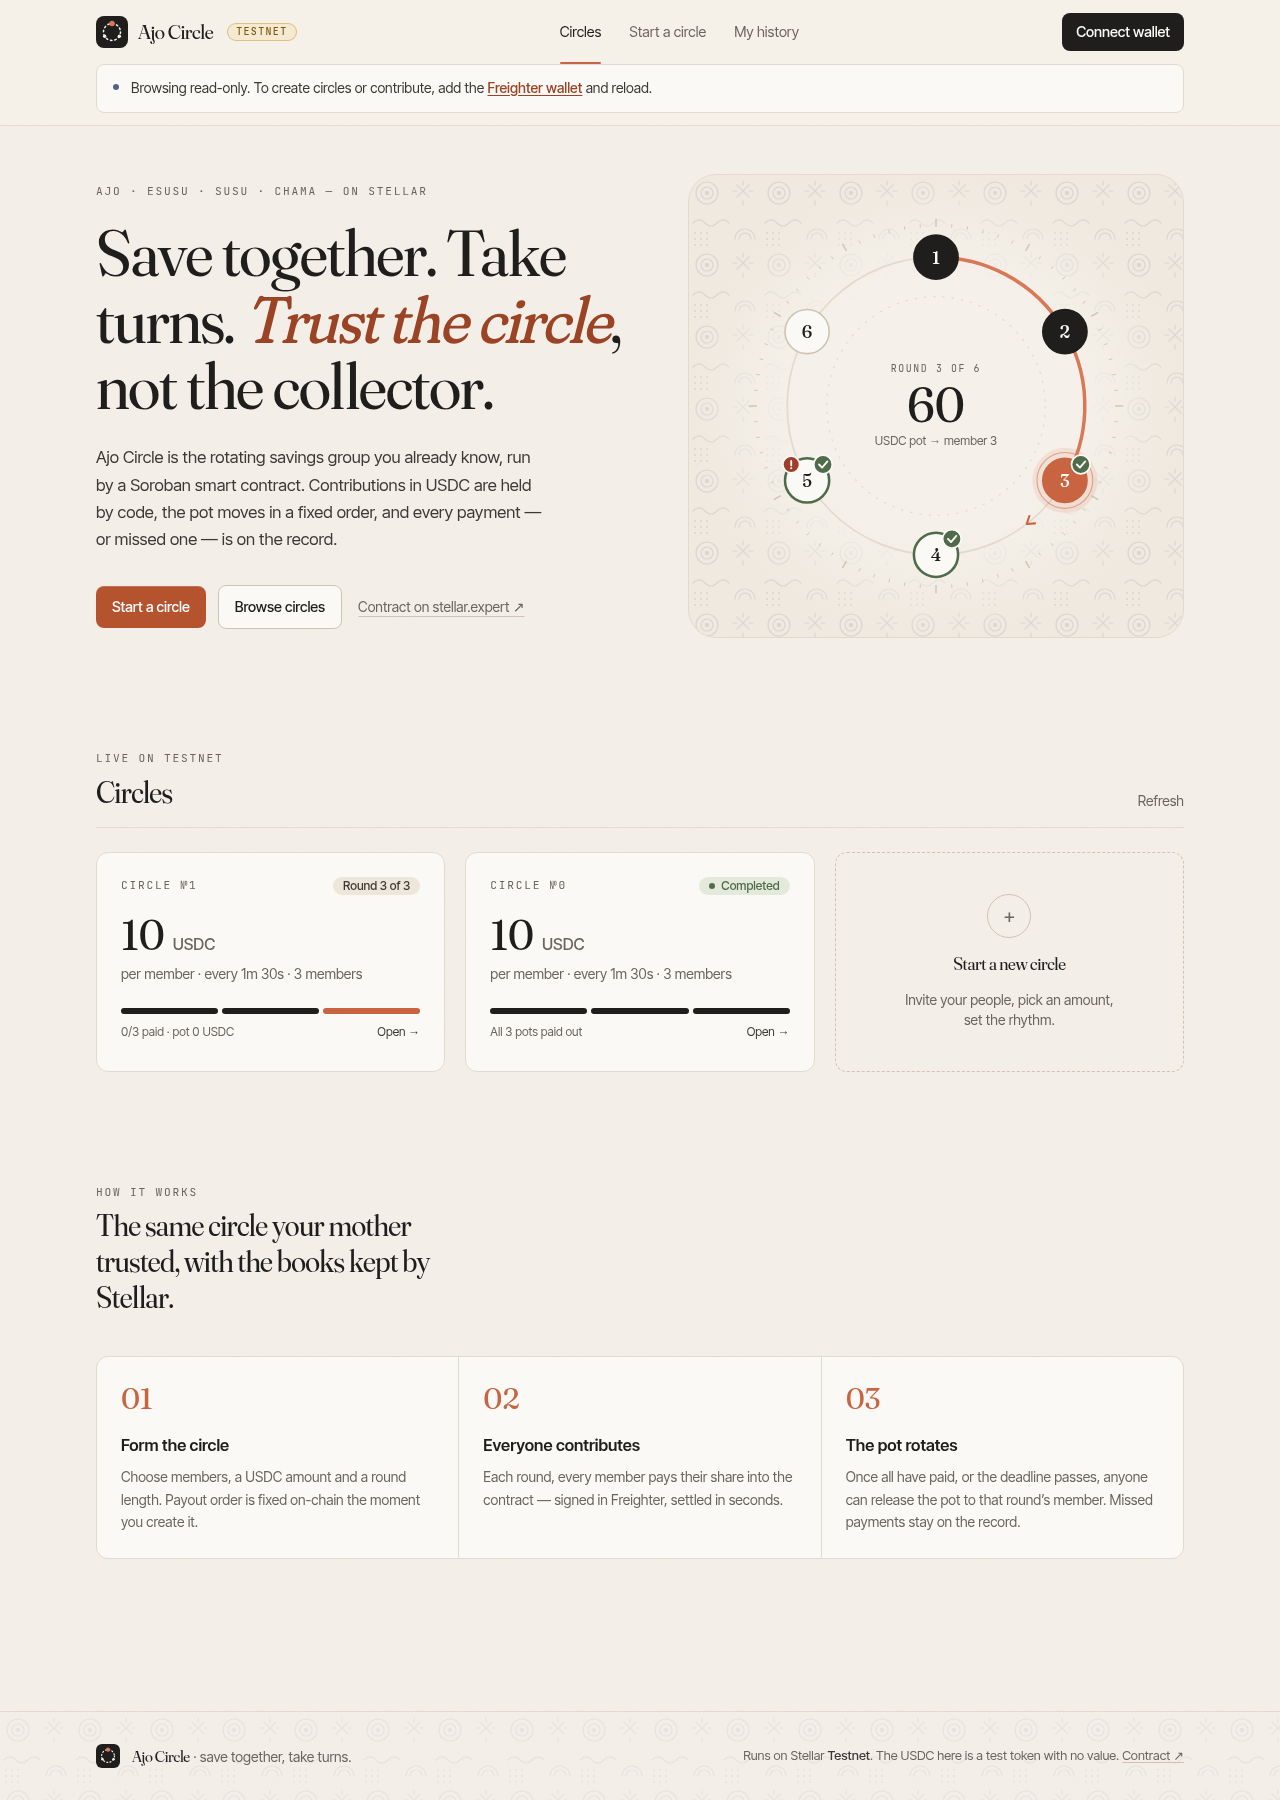
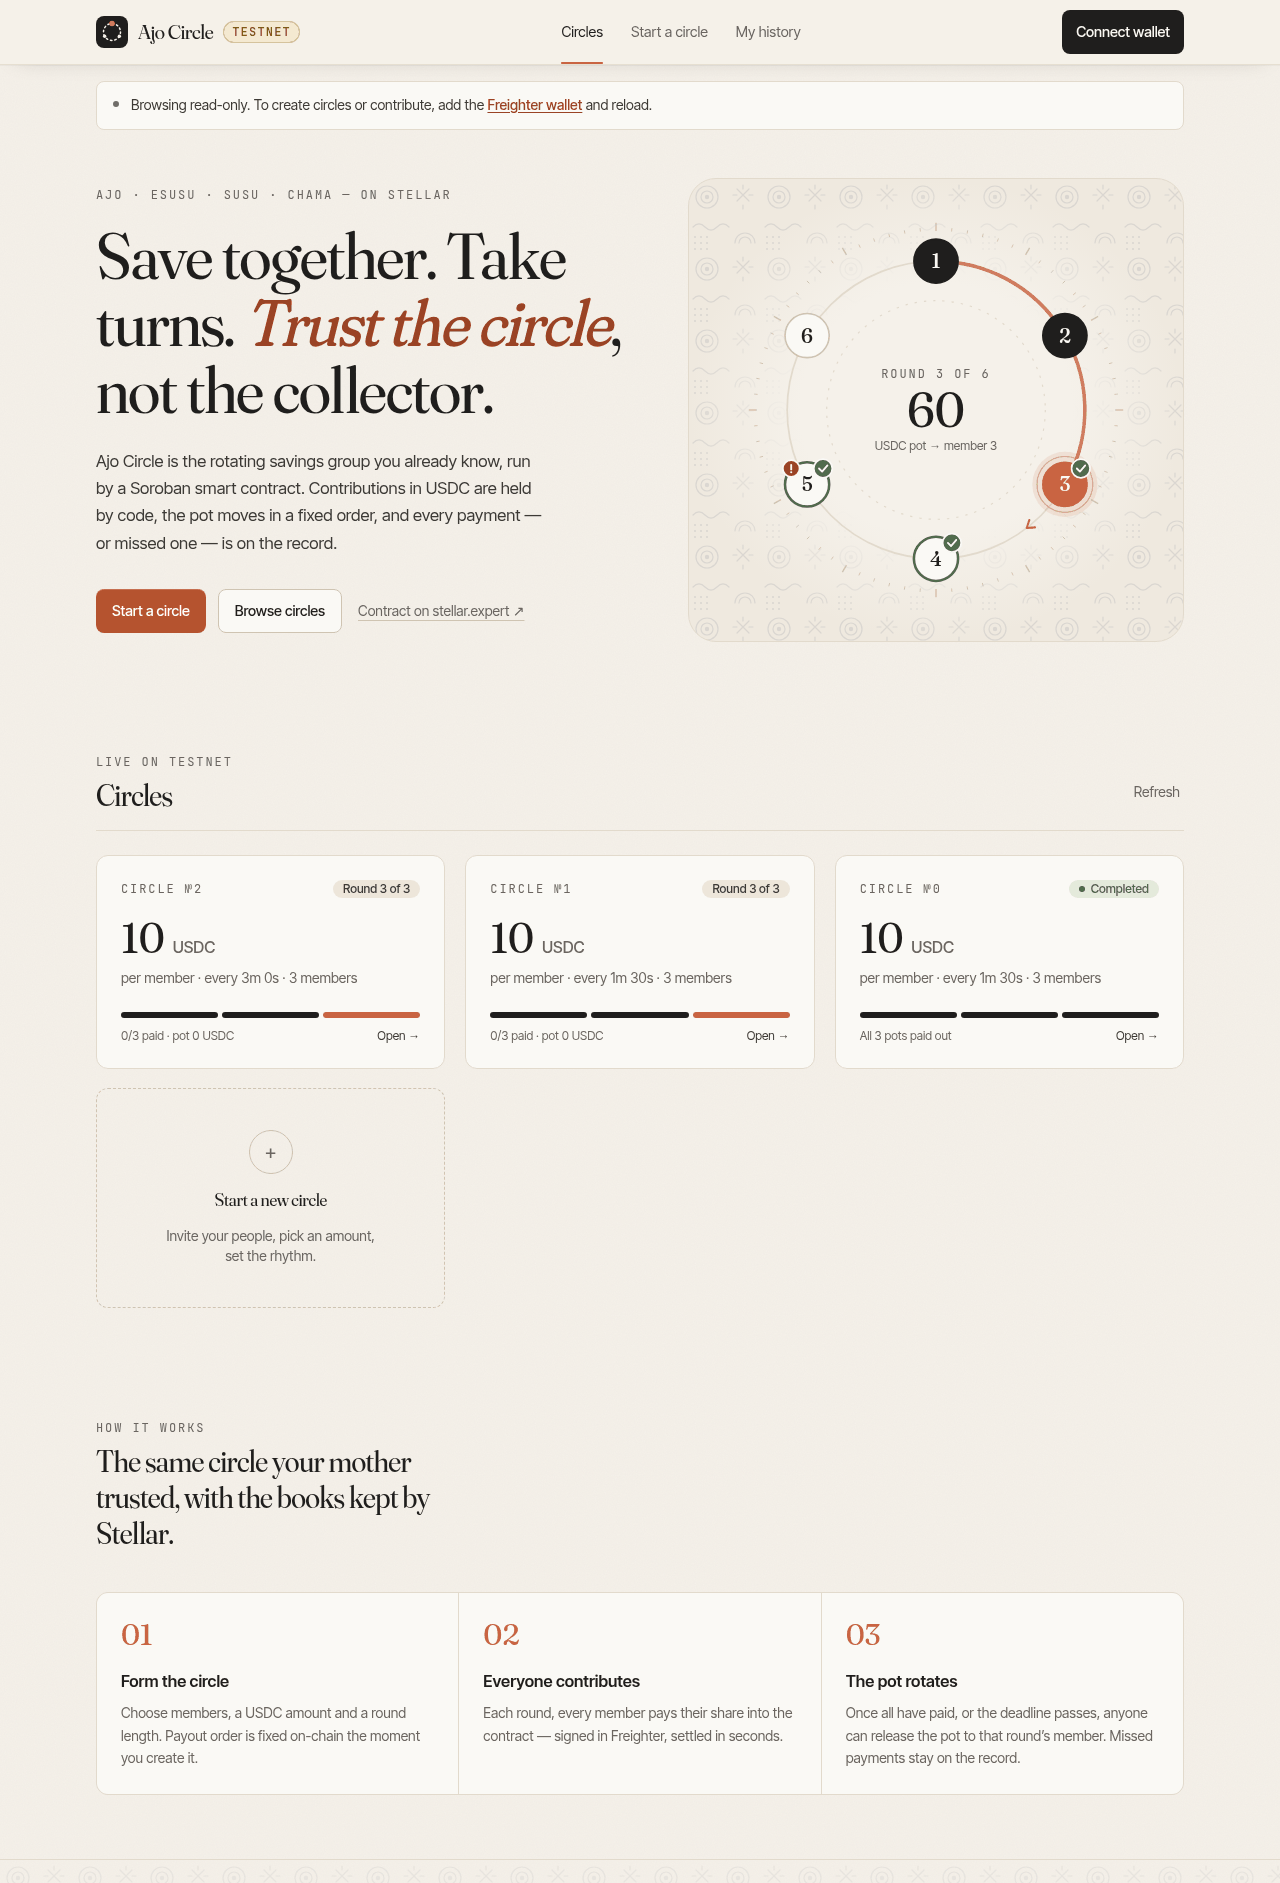
docs: refresh screenshots (responsive), quantize PNGs

diff --git a/README.md b/README.md
@@ -17,7 +17,10 @@ Built for the Stellar **"Find Your Way"** hackathon (General Track).
 <p>
   <img src="docs/screenshots/mobile-home.png" alt="Mobile home" width="260" />
   <img src="docs/screenshots/mobile-circle-0.png" alt="Mobile circle dashboard" width="260" />
+  <img src="docs/screenshots/mobile-create.png" alt="Mobile create form" width="260" />
 </p>
+
+Responsive from 320 px phones to desktop: bottom tab bar on phones, actions before history on the dashboard, card lists instead of tables, ≥ 44 px tap targets and ≥ 12 px text (checked with a headless-Chrome audit at 320/360/390/430/768/1024/1280 px — no horizontal overflow on any page).
 
 Design: warm paper palette with a clay accent and adire-indigo pattern (a nod to Yoruba resist-dyed cloth), Fraunces for headings and numbers, Inter Tight for UI, JetBrains Mono for addresses. The circle dashboard draws the group as a ring: members in payout order, the current recipient in clay, paid / already-received / defaulted marks on each seat.
 
